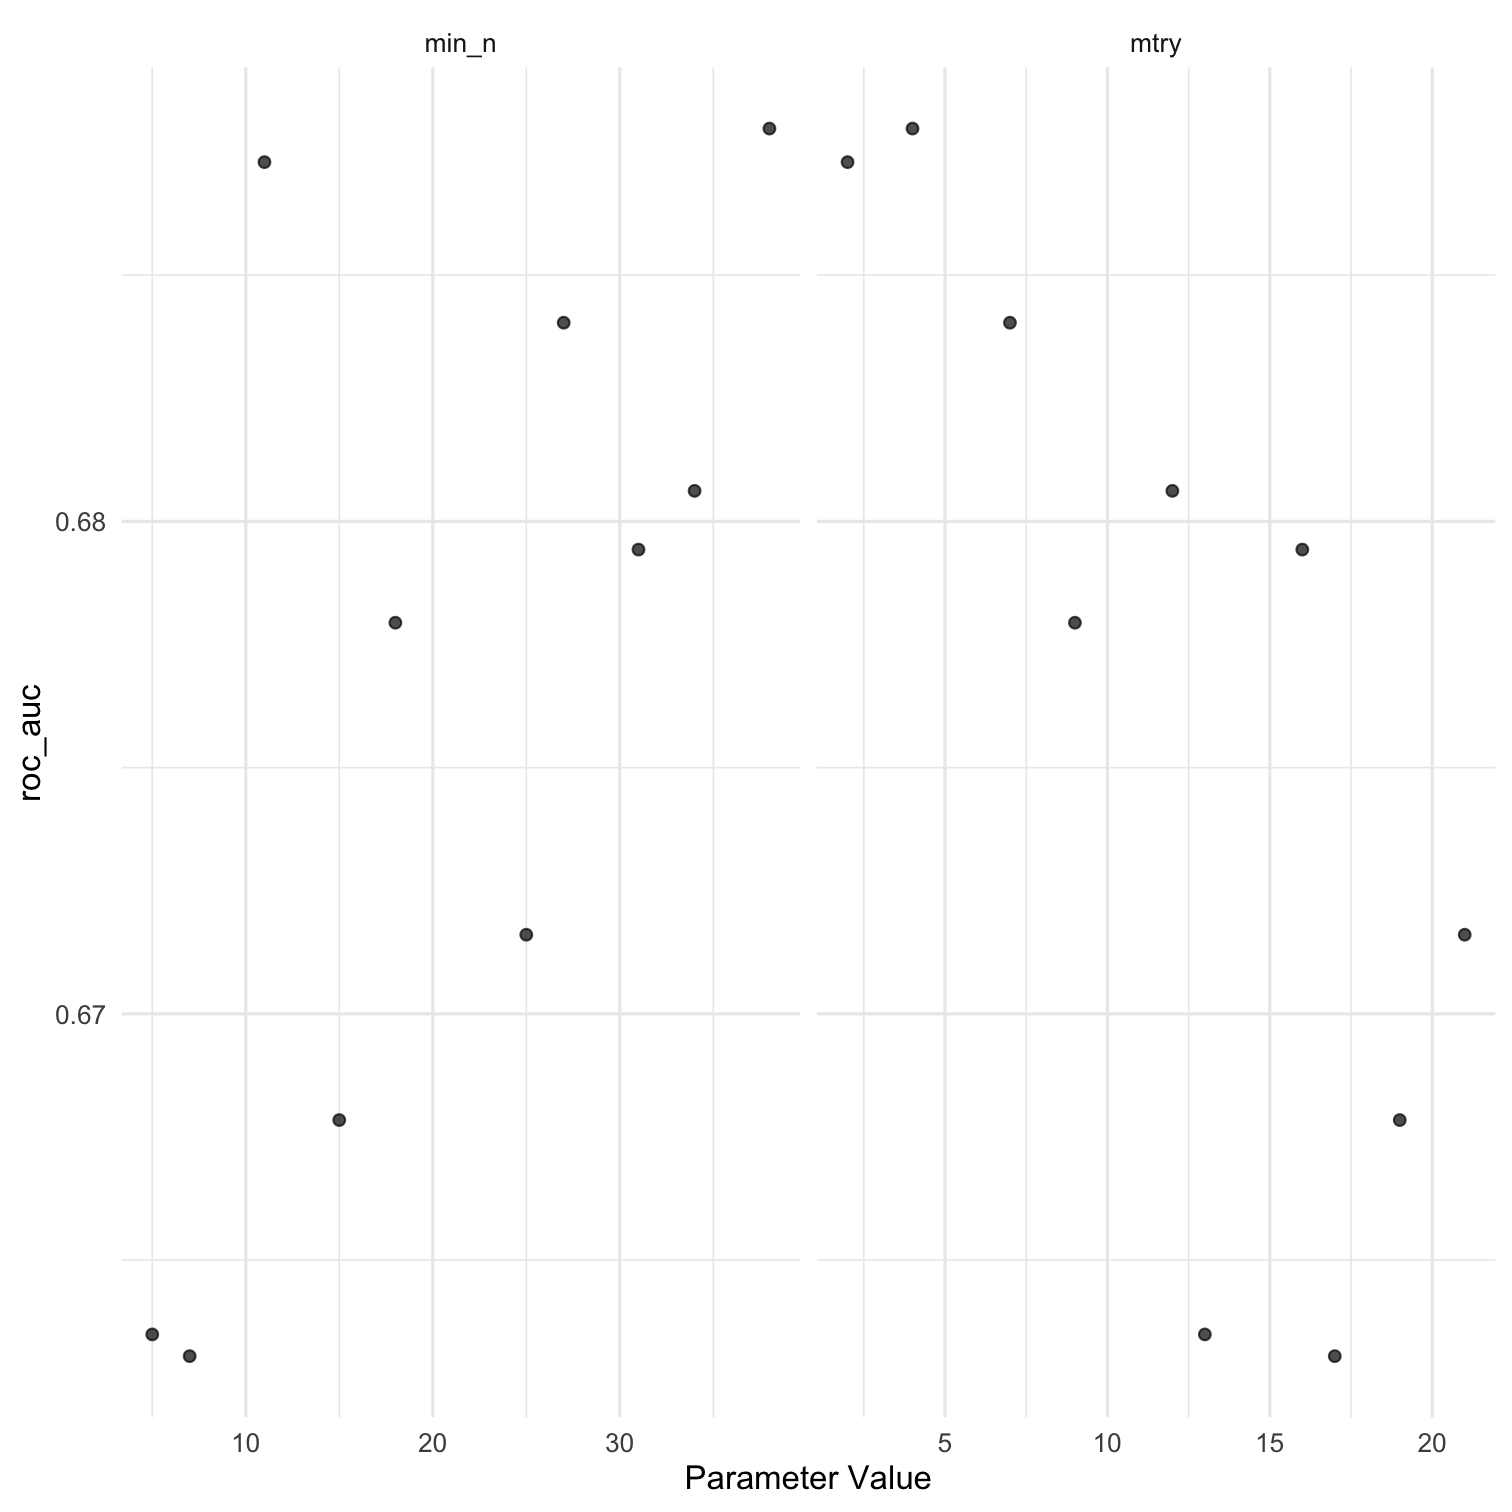
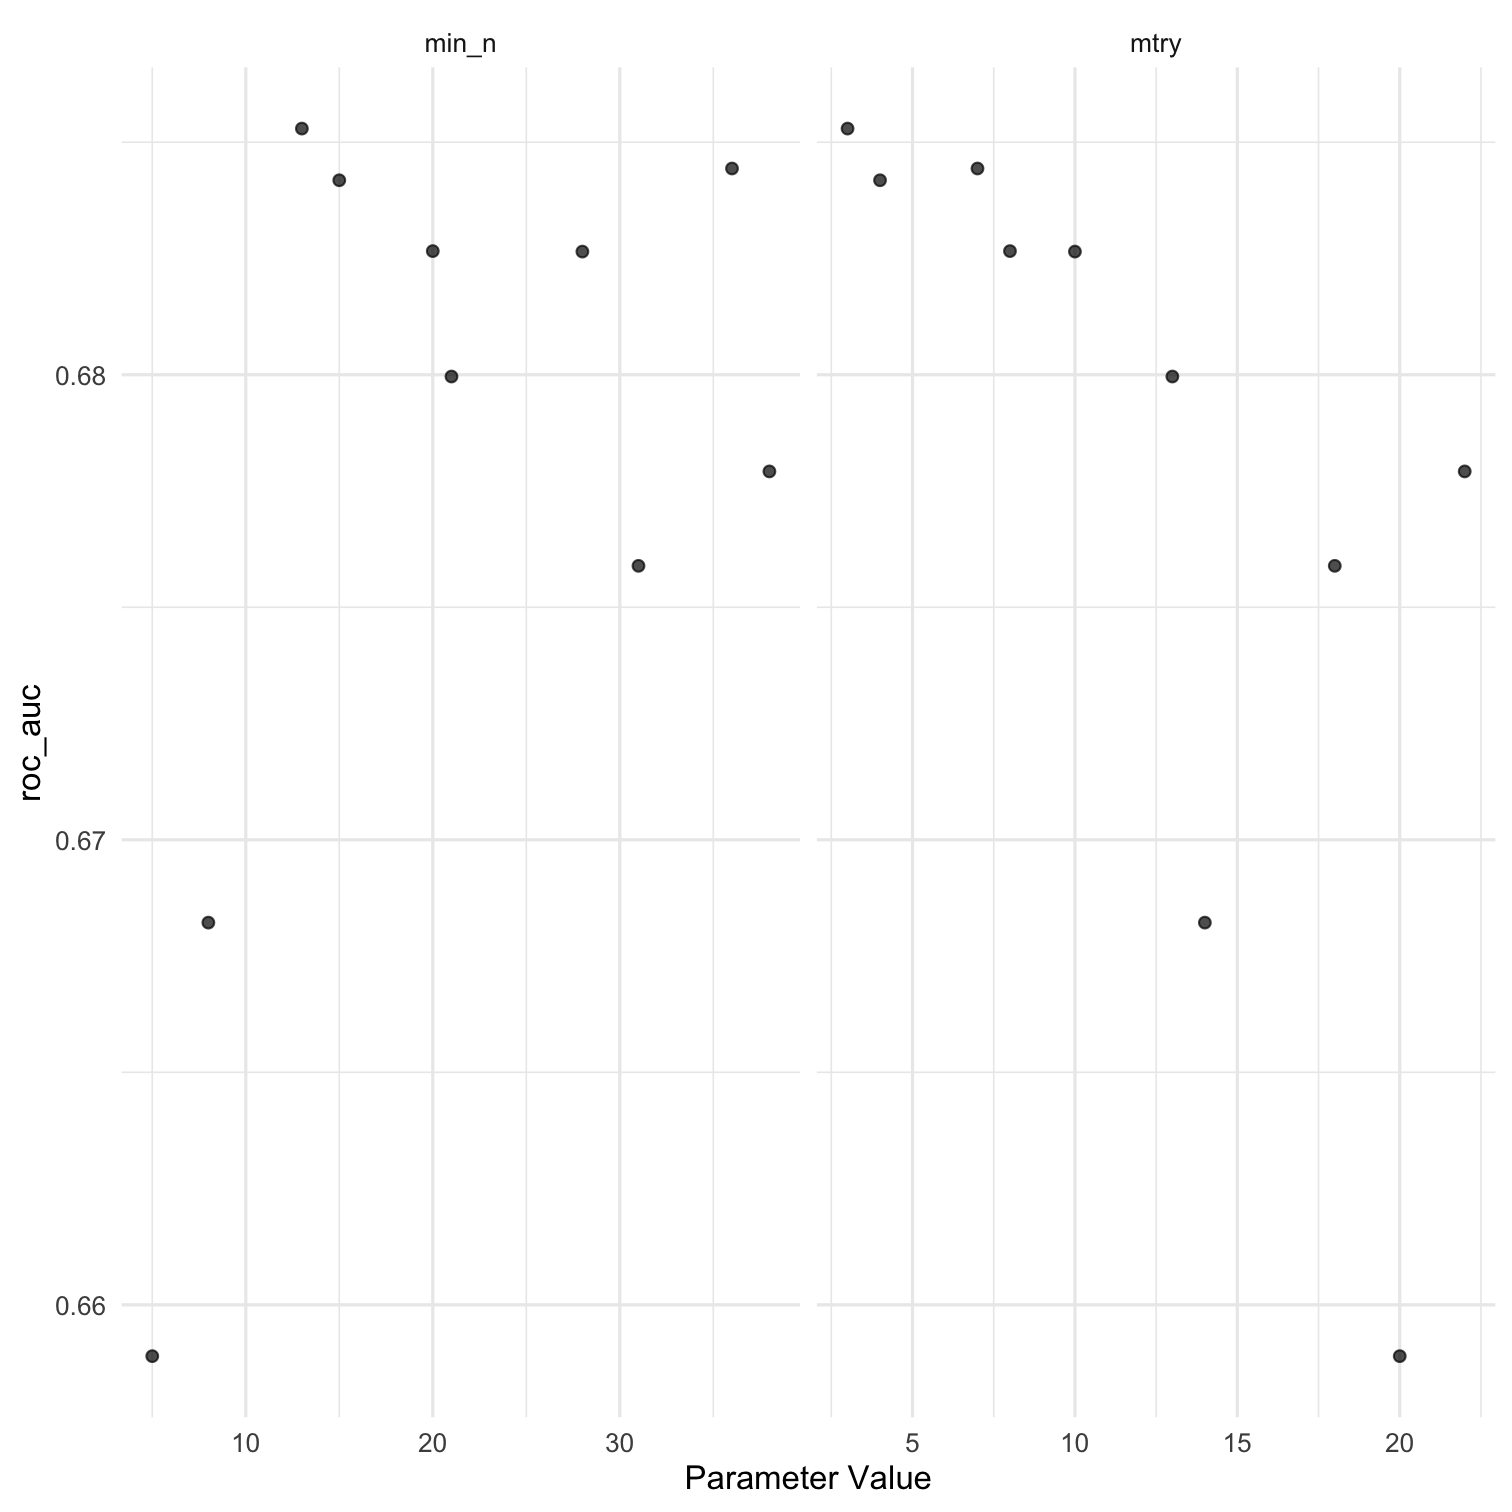
back up to 500 instead of 1000 trees for cloud

diff --git a/slides/05-tune.html b/slides/05-tune.html
@@ -395,7 +395,7 @@ class: your-turn
 
 ```r
 rf_spec &lt;- 
-  rand_forest(trees = 1000) %&gt;% 
+  rand_forest() %&gt;% 
   set_engine("ranger") %&gt;% 
   set_mode("classification")
 
@@ -414,6 +414,7 @@ Here is the output from `fit_resamples()`...
 
 
 ```r
+set.seed(100) # Important!
 rf_results &lt;-
   rf_workflow %&gt;% 
   fit_resamples(resamples = so_folds,
@@ -424,7 +425,7 @@ rf_results %&gt;%
 # # A tibble: 1 x 5
 #   .metric .estimator  mean     n std_err
 #   &lt;chr&gt;   &lt;chr&gt;      &lt;dbl&gt; &lt;int&gt;   &lt;dbl&gt;
-# 1 roc_auc binary     0.680    10  0.0202
+# 1 roc_auc binary     0.683    10  0.0206
 ```
 
 
@@ -433,7 +434,7 @@ class: your-turn
 
 # Your Turn 1
 
-Edit the random forest model to create 1000 trees, and tune the `mtry` and `min_n` hyperparameters. 
+Edit the random forest model to tune the `mtry` and `min_n` hyperparameters. 
 
 Update your workflow to use the tuned model.
 
@@ -441,7 +442,7 @@ Then use `tune_grid()` to find the best combination of hyper-parameters to maxim
 
 How does it compare to the average ROC AUC across folds from `fit_resamples()`?
 
-<div class="countdown" id="timer_5eac26ac" style="right:0;bottom:0;" data-warnwhen="0">
+<div class="countdown" id="timer_5eac3fe8" style="right:0;bottom:0;" data-warnwhen="0">
 <code class="countdown-time"><span class="countdown-digits minutes">05</span><span class="countdown-digits colon">:</span><span class="countdown-digits seconds">00</span></code>
 </div>
 
@@ -451,8 +452,7 @@ How does it compare to the average ROC AUC across folds from `fit_resamples()`?
 ```r
 rf_tuner &lt;- 
   rand_forest(mtry = tune(),
-              min_n = tune(),
-              trees = 1000) %&gt;% 
+              min_n = tune()) %&gt;% 
   set_engine("ranger") %&gt;% 
   set_mode("classification")
 
@@ -460,6 +460,7 @@ rf_workflow &lt;-
   rf_workflow %&gt;% 
   update_model(rf_tuner)
 
+set.seed(100) # Important!
 rf_results &lt;-
   rf_workflow %&gt;% 
   tune_grid(resamples = so_folds,
@@ -475,16 +476,16 @@ rf_results %&gt;%
 # # A tibble: 10 x 7
 #     mtry min_n .metric .estimator  mean     n std_err
 #    &lt;int&gt; &lt;int&gt; &lt;chr&gt;   &lt;chr&gt;      &lt;dbl&gt; &lt;int&gt;   &lt;dbl&gt;
-#  1     2    11 roc_auc binary     0.687    10  0.0177
-#  2     4    38 roc_auc binary     0.688    10  0.0196
-#  3     7    27 roc_auc binary     0.684    10  0.0209
-#  4     9    18 roc_auc binary     0.678    10  0.0213
-#  5    12    34 roc_auc binary     0.681    10  0.0222
-#  6    13     5 roc_auc binary     0.663    10  0.0213
-#  7    16    31 roc_auc binary     0.679    10  0.0225
-#  8    17     7 roc_auc binary     0.663    10  0.0220
-#  9    19    15 roc_auc binary     0.668    10  0.0227
-# 10    21    25 roc_auc binary     0.672    10  0.0227
+#  1     3    13 roc_auc binary     0.685    10  0.0198
+#  2     4    15 roc_auc binary     0.684    10  0.0201
+#  3     7    36 roc_auc binary     0.684    10  0.0203
+#  4     8    20 roc_auc binary     0.683    10  0.0209
+#  5    10    28 roc_auc binary     0.683    10  0.0211
+#  6    13    21 roc_auc binary     0.680    10  0.0219
+#  7    14     8 roc_auc binary     0.668    10  0.0221
+#  8    18    31 roc_auc binary     0.676    10  0.0225
+#  9    20     5 roc_auc binary     0.659    10  0.0220
+# 10    22    38 roc_auc binary     0.678    10  0.0231
 ```
 
 ---
@@ -495,16 +496,16 @@ rf_results %&gt;%
 # # A tibble: 100 x 6
 #    id      mtry min_n .metric .estimator .estimate
 #    &lt;chr&gt;  &lt;int&gt; &lt;int&gt; &lt;chr&gt;   &lt;chr&gt;          &lt;dbl&gt;
-#  1 Fold01    19    15 roc_auc binary         0.709
-#  2 Fold01    13     5 roc_auc binary         0.704
-#  3 Fold01    12    34 roc_auc binary         0.724
-#  4 Fold01    16    31 roc_auc binary         0.715
-#  5 Fold01     7    27 roc_auc binary         0.731
-#  6 Fold01    21    25 roc_auc binary         0.710
-#  7 Fold01     4    38 roc_auc binary         0.738
-#  8 Fold01     9    18 roc_auc binary         0.720
-#  9 Fold01     2    11 roc_auc binary         0.741
-# 10 Fold01    17     7 roc_auc binary         0.698
+#  1 Fold01    10    28 roc_auc binary         0.726
+#  2 Fold01     7    36 roc_auc binary         0.732
+#  3 Fold01    13    21 roc_auc binary         0.717
+#  4 Fold01     3    13 roc_auc binary         0.741
+#  5 Fold01    14     8 roc_auc binary         0.709
+#  6 Fold01    18    31 roc_auc binary         0.717
+#  7 Fold01     4    15 roc_auc binary         0.744
+#  8 Fold01    20     5 roc_auc binary         0.698
+#  9 Fold01    22    38 roc_auc binary         0.710
+# 10 Fold01     8    20 roc_auc binary         0.729
 # # … with 90 more rows
 ```
 
@@ -588,11 +589,11 @@ template: show-best
 # # A tibble: 5 x 7
 #    mtry min_n .metric .estimator  mean     n std_err
 #   &lt;int&gt; &lt;int&gt; &lt;chr&gt;   &lt;chr&gt;      &lt;dbl&gt; &lt;int&gt;   &lt;dbl&gt;
-# 1     4    38 roc_auc binary     0.688    10  0.0196
-# 2     2    11 roc_auc binary     0.687    10  0.0177
-# 3     7    27 roc_auc binary     0.684    10  0.0209
-# 4    12    34 roc_auc binary     0.681    10  0.0222
-# 5    16    31 roc_auc binary     0.679    10  0.0225
+# 1     3    13 roc_auc binary     0.685    10  0.0198
+# 2     7    36 roc_auc binary     0.684    10  0.0203
+# 3     4    15 roc_auc binary     0.684    10  0.0201
+# 4     8    20 roc_auc binary     0.683    10  0.0209
+# 5    10    28 roc_auc binary     0.683    10  0.0211
 ```
 
 
@@ -630,7 +631,7 @@ Shows the .display[top] combination of hyper-parameters.
 ```r
 so_best &lt;-
   rf_results %&gt;% 
-    select_best(metric = "roc_auc")
+  select_best(metric = "roc_auc")
 
 so_best
 ```
@@ -643,7 +644,7 @@ template: select-best
 # # A tibble: 1 x 2
 #    mtry min_n
 #   &lt;int&gt; &lt;int&gt;
-# 1     4    38
+# 1     3    13
 ```
 
 ---
@@ -659,7 +660,7 @@ Replaces `tune()` placeholders in a model/recipe/workflow with a set of hyper-pa
 ```r
 last_rf_workflow &lt;- 
   rf_workflow %&gt;%
-    finalize_workflow(so_best) 
+  finalize_workflow(so_best) 
 ```
 
 ---
@@ -714,7 +715,7 @@ Use `select_best()`, `finalize_workflow()`, and `last_fit()` to take the best co
 
 How does our actual test ROC AUC compare to our cross-validated estimate?
 
-<div class="countdown" id="timer_5eac2a27" style="right:0;bottom:0;" data-warnwhen="0">
+<div class="countdown" id="timer_5eac41c7" style="right:0;bottom:0;" data-warnwhen="0">
 <code class="countdown-time"><span class="countdown-digits minutes">05</span><span class="countdown-digits colon">:</span><span class="countdown-digits seconds">00</span></code>
 </div>
 
@@ -752,8 +753,8 @@ last_rf_fit %&gt;%
 # # A tibble: 2 x 3
 #   .metric  .estimator .estimate
 #   &lt;chr&gt;    &lt;chr&gt;          &lt;dbl&gt;
-# 1 accuracy binary         0.680
-# 2 roc_auc  binary         0.733
+# 1 accuracy binary         0.677
+# 2 roc_auc  binary         0.735
 ```
 
 
@@ -771,16 +772,16 @@ last_rf_fit %&gt;%
 # # A tibble: 1,398 x 6
 #    id    .pred_Remote `.pred_Not remo…  .row .pred_class
 #    &lt;chr&gt;        &lt;dbl&gt;            &lt;dbl&gt; &lt;int&gt; &lt;fct&gt;      
-#  1 trai…        0.514            0.486     1 Remote     
-#  2 trai…        0.393            0.607     6 Not remote 
-#  3 trai…        0.232            0.768    18 Not remote 
-#  4 trai…        0.606            0.394    23 Remote     
-#  5 trai…        0.476            0.524    30 Not remote 
-#  6 trai…        0.556            0.444    50 Remote     
-#  7 trai…        0.838            0.162    53 Remote     
-#  8 trai…        0.404            0.596    56 Not remote 
-#  9 trai…        0.578            0.422    63 Remote     
-# 10 trai…        0.300            0.700    68 Not remote 
+#  1 trai…        0.505            0.495     1 Remote     
+#  2 trai…        0.410            0.590     6 Not remote 
+#  3 trai…        0.185            0.815    18 Not remote 
+#  4 trai…        0.654            0.346    23 Remote     
+#  5 trai…        0.463            0.537    30 Not remote 
+#  6 trai…        0.547            0.453    50 Remote     
+#  7 trai…        0.855            0.145    53 Remote     
+#  8 trai…        0.432            0.568    56 Not remote 
+#  9 trai…        0.588            0.412    63 Remote     
+# 10 trai…        0.315            0.685    68 Not remote 
 # # … with 1,388 more rows, and 1 more variable: Remote &lt;fct&gt;
 ```
 
